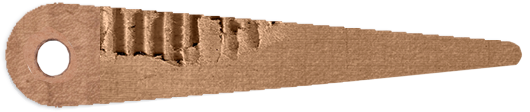
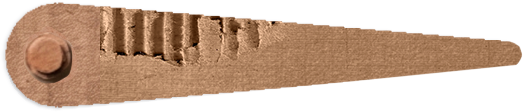
Edits

Changed region(s): [[0.0302, 0.2946, 0.1509, 0.75]]

diff --git a/css/style.css b/css/style.css
@@ -1,3 +1,13 @@
+/* Switch + light bank metrics (positions in viewport units so they track the
+   BASE01.png console). Tune here — estimated from the reference image. */
+:root {
+    --toggle-center-y: 85.7cqh;  /* vertical center of the row (% of stage) */
+    --toggle-left: 5.3cqw;       /* left edge of the first switch */
+    --toggle-gap: 0.29cqw;       /* gap between every switch/light */
+    --switch-size: 5.85cqw;      /* switch (larger) diameter */
+    --light-size: 3.6cqw;        /* light (smaller) diameter */
+}
+
 /* Bitstream Charter (redistributable, bundled in Assets/fonts/ — see
    Charter-LICENSE.txt). Regular, bold, italic, and bold-italic faces — the text
    renderer uses all four for Markdown styling. */
@@ -33,27 +43,34 @@
 body {
     margin: 0;
     overflow: hidden;
-    background-color: #0b0b0b;
+    background-color: #000; /* letterbox bars */
     font-family: monospace;
 }
 
-#bg-frame {
+/* Largest 16:9 box that fits the window, centered. Everything positions
+   relative to this, and cqw/cqh units let children scale with it.
+   (16/9 = 1.7778, 9/16 = 0.5625) */
+#stage {
     position: fixed;
-    top: 0;
-    left: 0;
-    width: 100vw;
-    height: 100vh;
+    inset: 0;
+    margin: auto;
+    width: min(100vw, 177.78vh);
+    height: min(100vh, 56.25vw);
+    overflow: hidden;
+    container-type: size;
+}
+
+#bg-frame {
+    position: absolute;
+    inset: 0;
     background: url('../BASE01.png') center center / cover no-repeat;
     z-index: 0;
     pointer-events: none;
 }
 
 #canvas-container {
-    position: fixed;
-    top: 0;
-    left: 0;
-    width: 100vw;
-    height: 100vh;
+    position: absolute;
+    inset: 0;
     z-index: 1;
     /* Let pointer-drag scrolling work without the browser hijacking touch gestures. */
     touch-action: none;
@@ -61,7 +78,7 @@ body {
 
 /* The pen needle — rotates about its pivot hole (transform-origin set in JS). */
 #pen {
-    position: fixed;
+    position: absolute;
     z-index: 3;
     pointer-events: none;
     will-change: transform;
@@ -69,20 +86,21 @@ body {
 
 /* Pen shadow — sits directly behind the pen and rotates with it. */
 #pen-shadow {
-    position: fixed;
+    position: absolute;
     z-index: 2;
     pointer-events: none;
     will-change: transform;
 }
 
 #toggle-panel {
-    position: fixed;
-    bottom: 60px;
-    left: 131px;
+    position: absolute;
+    top: var(--toggle-center-y);
+    left: var(--toggle-left);
+    transform: translateY(-50%);
     display: flex;
     flex-direction: row;
     align-items: center;
-    gap: 10px;
+    gap: var(--toggle-gap);
     z-index: 10;
 }
 
@@ -91,7 +109,7 @@ body {
     display: flex;
     flex-direction: row;
     align-items: center;
-    gap: 10px;
+    gap: var(--toggle-gap);
 }
 
 .toggle-switch {
@@ -104,13 +122,13 @@ body {
 }
 
 .toggle-switch img {
-    width: 69px;
+    width: var(--switch-size);
     height: auto;
     display: block;
 }
 
 .toggle-light {
-    width: 46px;
+    width: var(--light-size);
     height: auto;
     display: block;
 }

diff --git a/js/pen.js b/js/pen.js
@@ -12,13 +12,17 @@ const P = CONFIG.pen;
 const clamp = (v, lo, hi) => Math.max(lo, Math.min(hi, v));
 
 export function initPen() {
+  // Live inside the 16:9 stage so positions/sizes scale with it. cqw/cqh units
+  // resolve against the stage (its container-type is set in CSS).
+  const stage = document.getElementById('stage') || document.body;
+
   // Position + rotation origin shared by the pen and its shadow (same artwork
   // dimensions, same pivot).
   const place = (img) => {
     img.alt = '';
-    img.style.left = P.pivotScreen.x + 'vw';
-    img.style.top = P.pivotScreen.y + 'vh';
-    img.style.width = P.widthVw + 'vw';
+    img.style.left = P.pivotScreen.x + 'cqw';
+    img.style.top = P.pivotScreen.y + 'cqh';
+    img.style.width = P.widthVw + 'cqw';
     img.style.transformOrigin = `${P.pivotInImage.x}% ${P.pivotInImage.y}%`;
   };
 
@@ -27,19 +31,19 @@ export function initPen() {
   shadow.id = 'pen-shadow';
   shadow.src = encodeURI(P.shadowSrc);
   place(shadow);
-  document.body.appendChild(shadow);
+  stage.appendChild(shadow);
 
   const pen = document.createElement('img');
   pen.id = 'pen';
   pen.src = P.src;
   place(pen);
-  document.body.appendChild(pen);
+  stage.appendChild(pen);
 
   const setPenAngle = (deg) => {
     const base = `translate(-${P.pivotInImage.x}%, -${P.pivotInImage.y}%)`;
     pen.style.transform = `${base} rotate(${deg}deg)`;
     shadow.style.transform =
-      `translate(${P.shadowOffset.x}vw, ${P.shadowOffset.y}vh) ${base} rotate(${deg}deg)`;
+      `translate(${P.shadowOffset.x}cqw, ${P.shadowOffset.y}cqh) ${base} rotate(${deg}deg)`;
   };
   setPenAngle(P.restAngleDeg);
 

diff --git a/js/scene.js b/js/scene.js
@@ -22,9 +22,17 @@ export function onFrame(cb) { frameCallbacks.push(cb); }
 export function initScene(container) {
   const scene = new THREE.Scene();
 
+  // Render to the (16:9) stage container, not the raw window, so the framing
+  // is fixed and the drum stays aligned with the background across sizes.
+  const sizeOf = () => ({
+    w: container.clientWidth || window.innerWidth,
+    h: container.clientHeight || window.innerHeight,
+  });
+  let { w, h } = sizeOf();
+
   const camera = new THREE.PerspectiveCamera(
     CONFIG.camera.fov,
-    window.innerWidth / window.innerHeight,
+    w / h,
     CONFIG.camera.near,
     CONFIG.camera.far,
   );
@@ -32,7 +40,7 @@ export function initScene(container) {
 
   const renderer = new THREE.WebGLRenderer({ antialias: true, alpha: true });
   renderer.setClearColor(0x000000, 0);
-  renderer.setSize(window.innerWidth, window.innerHeight);
+  renderer.setSize(w, h);
   renderer.setPixelRatio(Math.min(window.devicePixelRatio, 2));
   container.appendChild(renderer.domElement);
 
@@ -111,9 +119,10 @@ export function initScene(container) {
   });
 
   window.addEventListener('resize', () => {
-    camera.aspect = window.innerWidth / window.innerHeight;
+    ({ w, h } = sizeOf());
+    camera.aspect = w / h;
     camera.updateProjectionMatrix();
-    renderer.setSize(window.innerWidth, window.innerHeight);
+    renderer.setSize(w, h);
   });
 
   let prevScroll = currentScroll;

diff --git a/index.html b/index.html
@@ -16,11 +16,15 @@
 </head>
 <body>
 
-    <div id="bg-frame"></div>
-    <div id="canvas-container"></div>
+    <!-- Fixed 16:9 stage; the window letterboxes around it. Everything lives
+         inside so it scales together and stays aligned. -->
+    <div id="stage">
+        <div id="bg-frame"></div>
+        <div id="canvas-container"></div>
 
-    <!-- Toggle bank is built by js/toggles.js -->
-    <div id="toggle-panel"></div>
+        <!-- Toggle bank is built by js/toggles.js; pen by js/pen.js -->
+        <div id="toggle-panel"></div>
+    </div>
 
     <script type="module" src="./js/main.js"></script>
 </body>

diff --git a/js/config.js b/js/config.js
@@ -44,8 +44,8 @@ export const CONFIG = {
   },
 
   // Seismograph pen (PEN.png overlay) that oscillates on scroll.
-  // All screen positions are in viewport units (vw/vh) so they track BASE01.png
-  // roughly across sizes. These are calibrated by eye — tune against the render.
+  // Positions/sizes are in stage container units (cqw/cqh, applied in pen.js),
+  // so they scale with the 16:9 stage. Calibrated by eye — tune against render.
   pen: {
     src: './PEN.png',
     // Shadow drawn behind the pen; shares the pen's pivot/size and rotates with

diff --git a/texts/00000.md b/texts/00000.md
@@ -8,3 +8,15 @@
 
 
 # **Speculation for an Unsettled Planet.**
+
+A collection of provocations by the students of Interaction Design at Anant National University, created as part of their Speculative Design course, Semester 06, 2026. 
+
+The course introduced speculative design methods to challenge normative design and explore the systemic inequities that are often undergirded by an unquestioning adherence to conventional practice.
+
+The works collected here are specifically oriented away from using speculation to generate escapist futurism, and instead the students used their speculations to understand power structures, explore hidden assumptions, and imagine alternative possibilities grounded in sustained critique. 
+
+The course emphasized ethical practice even within the realm of speculative design, particularly addressing the risks of colonial speculation, exotification, and tech-solutionism.
+
+**With the works compiled here students seek to demonstrate how design has always served ideology, and ask : who benefits from the precarious status quo of a fundamentally unsettled planet?**
+
+
